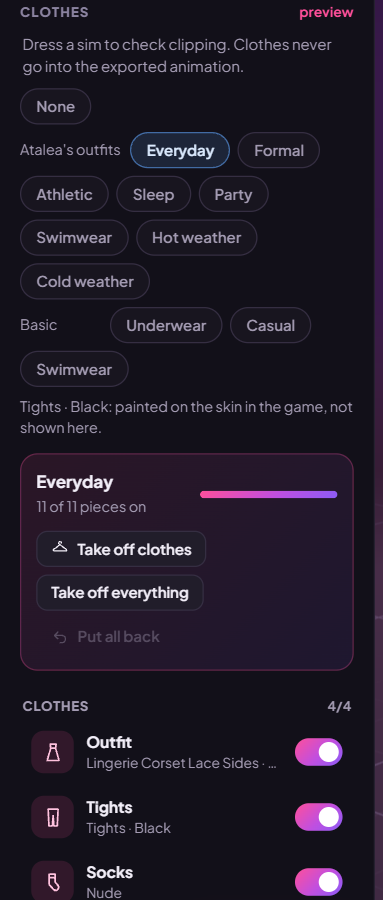
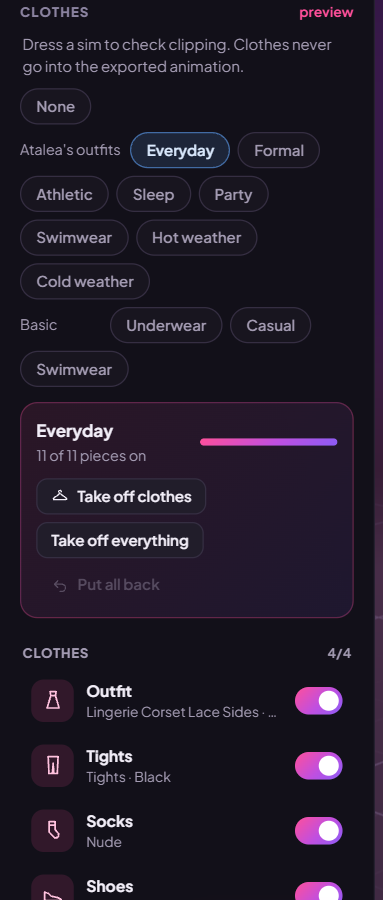
README: a first-animation walkthrough, common questions, where files are kept and how to remove an app
- Quick Start: where the set-aside CC goes and when to use each start.
- Questions people ask: game running, CC safety, missing CC in Create a
  Sim, animations not showing up, sharing, Tray sims, updates, setup.
- A table of every folder the apps use.
- The clothes list picture shows tights as worn, not as a note.

diff --git a/README.md b/README.md
@@ -37,8 +37,12 @@ files that can take many minutes.
 
 **Quick Start** looks at your saves and your in-game library, works out which CC is actually used, and starts the game
 with just that. Your sims and lots look exactly the same, and the game gets to the main menu in a fraction of the time.
-The rest of your CC isn't deleted. It's moved to a side folder for that session and comes back the moment you pick
-**Full Start**, which loads everything for building and browsing in Create a Sim.
+The rest of your CC isn't deleted. It's moved to a side folder (`Mods_parked`, right next to your Mods folder) for
+that session and comes back the moment you pick **Full Start**, which loads everything for building and browsing in
+Create a Sim.
+
+A simple way to use it: pick **Quick Start** when you just want to play, and **Full Start** when you want to make a
+new sim or build with all your CC.
 
 The Hub times every start, so you can see how much time you're saving.
 
@@ -66,8 +70,8 @@ to remove. Merged files can be split back into the files that went into them.
 Start a single save with only the CC that save needs, which is the fastest start there is. You can also see which CC
 each save uses, what's missing from it, and which saves are getting big.
 
-Backups of your saves are kept outside the game's folder, and one is made automatically before the Hub changes
-anything after a game update.
+Backups of your saves go in a folder the game never reads, and one is made automatically before the Hub changes
+anything after a game update. Restoring one is a single click.
 
 </td>
 </tr>
@@ -174,6 +178,17 @@ See each piece a sim is wearing, and take pieces off one at a time or all at onc
   you can select several body parts and move them together.
 - **Smooth loops.** Easing curves, ghost frames, motion trails and tools to make a loop join up without a jump.
 
+### Your first animation in a few minutes
+
+1. Open Wicked Animator and click **Magic Animation** on the home screen.
+2. Pick a position, where it happens and how fast it should be, then press **Make it**. Both sims are posed and
+   moving, with sounds.
+3. Play it and change whatever you like: drag a hand, move a key on the timeline, add voices in the Sounds step.
+4. Give it a name in the Details step.
+5. Press **Send to game**, then start The Sims 4. It's in WickedWhims with your other animations.
+
+When you want more control, start with **Blank animation** instead and build it pose by pose.
+
 ### Getting it into the game
 
 Press **Send to game** and the animation is written into your Mods folder as a WickedWhims animation, ready the next
@@ -195,6 +210,66 @@ If Windows says "Windows protected your PC", click **More info**, then **Run any
 by independent creators.
 
 **You'll need:** Windows 10 or 11 (64-bit) and The Sims 4 on PC.
+
+## Questions people ask
+
+#### Does the game need to be running?
+
+No, and it's better if it isn't. The Hub only changes your Mods folder while the game is closed. Wicked Animator
+doesn't need the game running either, but The Sims 4 has to be installed, because the app uses the game's own bodies
+and sounds.
+
+#### Can the Hub break or delete my CC?
+
+It never deletes anything. Quick Start only moves unused CC aside, clean-ups move files to a safe-keeping folder, and
+**Undo last change** puts everything back the way it was. Script mods are never merged or changed.
+
+#### Why doesn't Create a Sim show all my CC?
+
+You're probably in Quick Start, which only loads the CC your saves use. Close the game and start it again with
+**Full Start** to get everything.
+
+#### My animation doesn't show up in the game
+
+Check that WickedWhims is installed and up to date, and that mods are turned on in the game (Game Options, Other:
+Enable Custom Content and Mods, and Script Mods Allowed). Then open **Check my game** on Wicked Animator's home
+screen. It looks through your Mods folder and your WickedWhims settings and tells you what's in the way.
+
+#### Can I share what I make?
+
+Yes. In the Share step, press **Export a mod**. You get one file you can upload anywhere, and other players only need
+WickedWhims to use it. You can put several animations in one mod.
+
+#### Can I use the sims from my game?
+
+Yes. Any adult sim saved to your in-game Library can be loaded into Wicked Animator with their own look.
+
+#### How do updates work?
+
+Each time you open an app, it checks for a newer version and updates itself before it starts. Updates never touch
+your saves, your animations or your settings.
+
+#### Do I need to install anything else?
+
+No. The first start sets up what the app needs. If your PC doesn't have Python yet, the app installs it for your
+Windows user only, so you don't need administrator rights.
+
+## Where your files are
+
+| What | Folder |
+|---|---|
+| CC set aside by Quick Start | `Documents\Electronic Arts\The Sims 4\Mods_parked` |
+| Save backups made by the Hub | `Documents\Electronic Arts\The Sims 4\SpeedKit\save_backups` |
+| Files set aside by clean-ups | `Documents\Electronic Arts\The Sims 4\SpeedKit` (or a `SpeedKit Quarantine` folder on another drive when space is low) |
+| Animations sent to the game | `Documents\Electronic Arts\The Sims 4\Mods\FitStudio\MyAnimations` |
+| Your animation projects | `Documents\Electronic Arts\The Sims 4\saves\FitStudio` |
+| Animations packaged for sharing | `Documents\Wicked Animator Exports` |
+| The apps themselves | `Tools\sims4_speedkit` and `Tools\sims4_animator` in your user folder |
+
+## Removing an app
+
+If you use Quick Start, open the Hub and pick **Full Start** once first, so all your CC is back in Mods. Then delete
+the app's folder (see above) and its desktop shortcut. Your saves, CC and animations stay where they are.
 
 ## Something not working?
 
